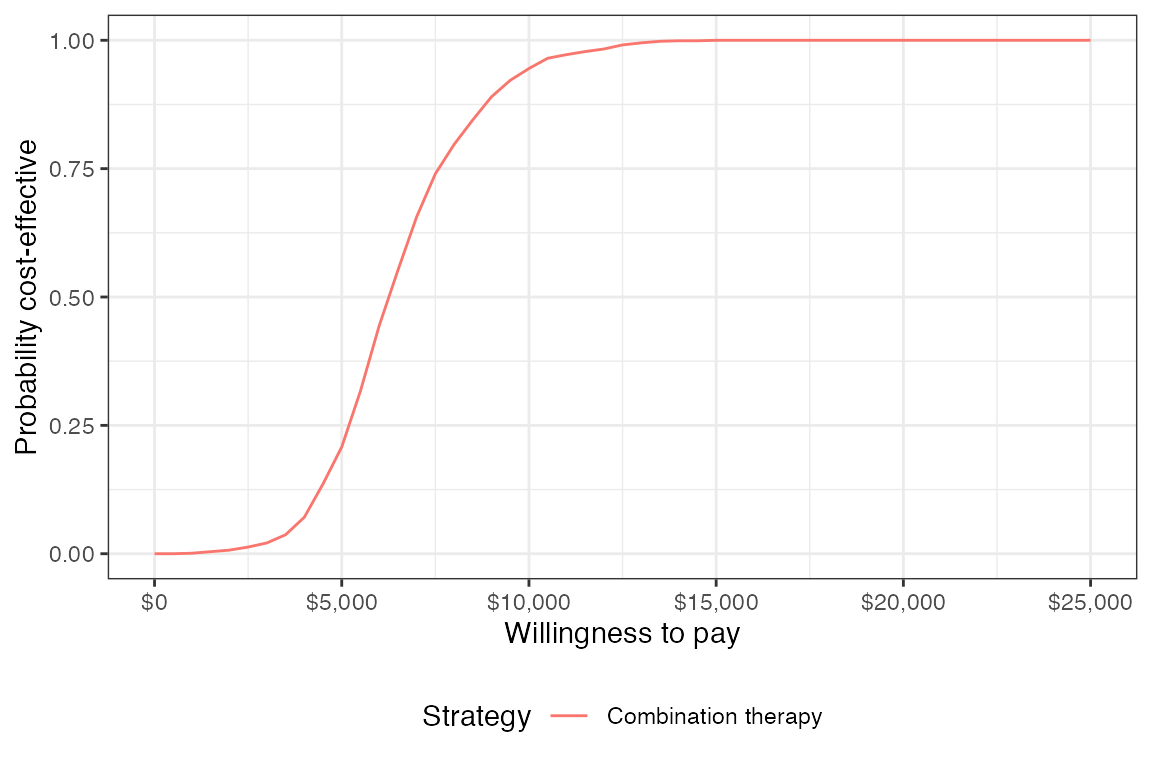
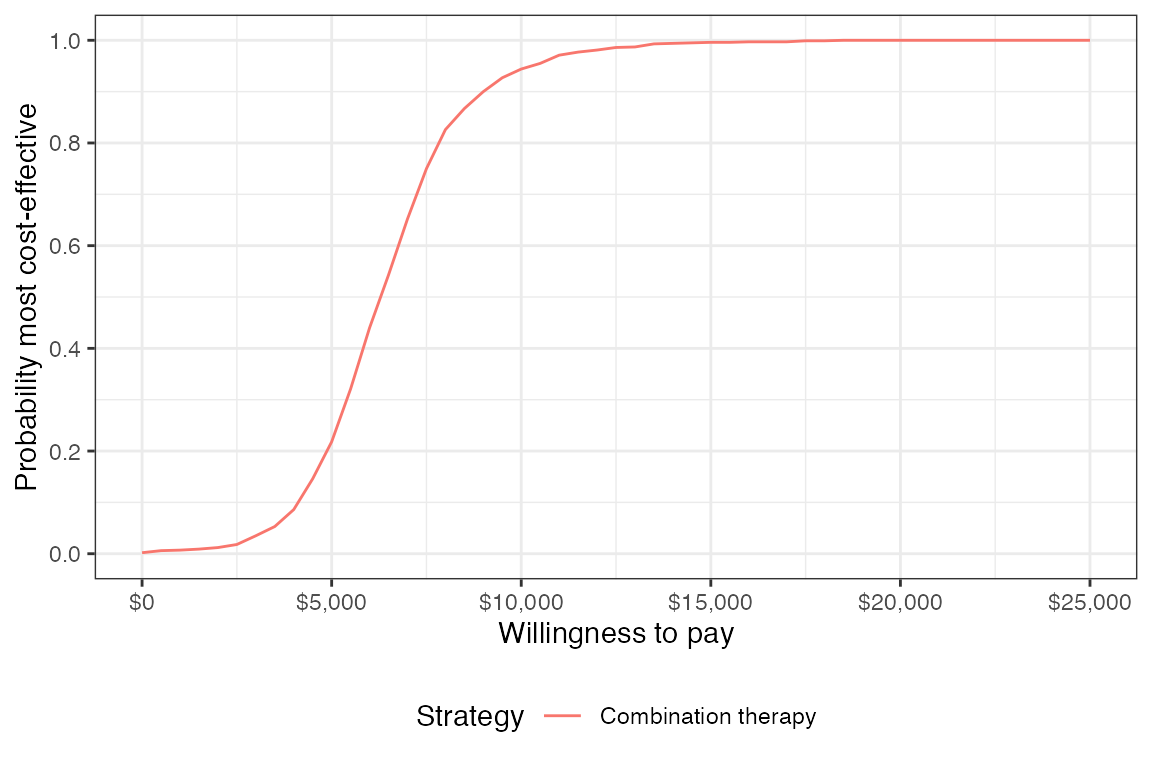
Update Simple Markov Model vignette

diff --git a/docs/dev/articles/markov-cohort.html b/docs/dev/articles/markov-cohort.html
@@ -124,7 +124,7 @@
     <div class="page-header toc-ignore">
       <h1 data-toc-skip>Simple Markov cohort model</h1>
             
-            <h4 class="date">2021-01-30</h4>
+            <h4 class="date">2021-02-01</h4>
       
       <small class="dont-index">Source: <a href="https://github.com/hesim-dev/hesim/blob/master/vignettes/markov-cohort.Rmd"><code>vignettes/markov-cohort.Rmd</code></a></small>
       <div class="hidden name"><code>markov-cohort.Rmd</code></div>
@@ -140,6 +140,7 @@
 <p>We consider a simple example by replicating the HIV model developed by <a href="https://link.springer.com/article/10.2165/00019053-199712010-00006">Chancellor et al.</a> and used for didactic purposes in the <a href="https://www.herc.ox.ac.uk/downloads/decision-modelling-for-health-economic-evaluation"><em>Decision Modeling for Health Economic Evaluation</em></a> textbook. The analysis compares two treatment strategies, zidovudine monotherapy and zidovudine + lamivudine combination therapy. While the model is technically time-inhomogeneous because patients are assumed to only use lamivudine for 2 years before switching back to monotherapy, transition probabilities only change once so it might be referred to as (mostly) homogeneous.</p>
 <p>The model consists 4 health states. Ordered from worst to best to worst, they are: State A (CD4 cells &gt; 200 and &lt; 500 cells/mm3), State B (CD4 &lt; 200 cells/mm3), State C (AIDS), and State D (death). The model assumes that patients can transition to any state that is more severe (i.e., progress) but cannot transition back to a more severe state.</p>
 <p><img src="markov-cohort.png" width="700px"></p>
+<p>Transition probability matrices are the core of any cDTSTM. They can, in general, be constructed by either (i) using an explicit statistical model (e.g., via <code><a href="../reference/params_mlogit.html">params_mlogit()</a></code>) or (ii) by specifying transition probabilities for each parameter sample, treatment strategy, patient, and (optionally) time interval (e.g., via <code><a href="../reference/tparams_transprobs.html">tparams_transprobs()</a></code>). The latter approach can either by done “by hand” via standard evaluation or using non-standard evaluation with <code><a href="../reference/define_model.html">define_model()</a></code>. We will construct a <code>tparams_transprobs</code> object with <code><a href="../reference/define_model.html">define_model()</a></code>in this vignette, but an example using standard evaluation is available in the <code><a href="../reference/CohortDtstm.html">?CohortDtstm</a></code> help file.</p>
 </div>
 <div id="model-setup" class="section level1">
 <h1 class="hasAnchor">
@@ -151,8 +152,11 @@
 <span class="va">strategies</span> <span class="op">&lt;-</span> <span class="fu"><a href="https://Rdatatable.gitlab.io/data.table/reference/data.table.html">data.table</a></span><span class="op">(</span>strategy_id <span class="op">=</span> <span class="fl">1</span><span class="op">:</span><span class="fl">2</span>,
                          strategy_name <span class="op">=</span> <span class="fu"><a href="https://rdrr.io/r/base/c.html">c</a></span><span class="op">(</span><span class="st">"Monotherapy"</span>, <span class="st">"Combination therapy"</span><span class="op">)</span><span class="op">)</span>
 <span class="va">patients</span> <span class="op">&lt;-</span> <span class="fu"><a href="https://Rdatatable.gitlab.io/data.table/reference/data.table.html">data.table</a></span><span class="op">(</span>patient_id <span class="op">=</span> <span class="fl">1</span><span class="op">)</span>
+<span class="va">states</span> <span class="op">&lt;-</span> <span class="fu"><a href="https://Rdatatable.gitlab.io/data.table/reference/data.table.html">data.table</a></span><span class="op">(</span>state_id <span class="op">=</span> <span class="fl">1</span><span class="op">:</span><span class="fl">3</span>,
+                     state_name <span class="op">=</span> <span class="fu"><a href="https://rdrr.io/r/base/c.html">c</a></span><span class="op">(</span><span class="st">"State A"</span>, <span class="st">"State B"</span>, <span class="st">"State C"</span><span class="op">)</span><span class="op">)</span>
 <span class="va">hesim_dat</span> <span class="op">&lt;-</span> <span class="fu"><a href="../reference/hesim_data.html">hesim_data</a></span><span class="op">(</span>strategies <span class="op">=</span> <span class="va">strategies</span>,
-                        patients <span class="op">=</span> <span class="va">patients</span><span class="op">)</span>
+                        patients <span class="op">=</span> <span class="va">patients</span>,
+                        states <span class="op">=</span> <span class="va">states</span><span class="op">)</span>
 <span class="fu"><a href="https://rdrr.io/r/base/print.html">print</a></span><span class="op">(</span><span class="va">hesim_dat</span><span class="op">)</span></code></pre></div>
 <pre><code>## $strategies
 ##    strategy_id       strategy_name
@@ -163,8 +167,25 @@
 ##    patient_id
 ## 1:          1
 ## 
+## $states
+##    state_id state_name
+## 1:        1    State A
+## 2:        2    State B
+## 3:        3    State C
+## 
 ## attr(,"class")
 ## [1] "hesim_data"</code></pre>
+<p>The <code><a href="../reference/get_labels.html">get_labels()</a></code> function can be used to obtain nice labels for plots and summary tables.</p>
+<div class="sourceCode" id="cb3"><pre class="downlit sourceCode r">
+<code class="sourceCode R"><span class="va">labs</span> <span class="op">&lt;-</span> <span class="fu"><a href="../reference/get_labels.html">get_labels</a></span><span class="op">(</span><span class="va">hesim_dat</span><span class="op">)</span>
+<span class="fu"><a href="https://rdrr.io/r/base/print.html">print</a></span><span class="op">(</span><span class="va">labs</span><span class="op">)</span></code></pre></div>
+<pre><code>## $strategy_id
+##         Monotherapy Combination therapy 
+##                   1                   2 
+## 
+## $state_id
+## State A State B State C   Death 
+##       1       2       3       4</code></pre>
 </div>
 <div id="model-parameters" class="section level1">
 <h1 class="hasAnchor">
@@ -173,7 +194,7 @@
 <h2 class="hasAnchor">
 <a href="#estimates-from-the-literature" class="anchor"></a>Estimates from the literature</h2>
 <p>Counts of transitions at yearly intervals between each of the 4 health states were available from a longitudinal dataset from Chelsea and Westminister hospital.</p>
-<div class="sourceCode" id="cb3"><pre class="downlit sourceCode r">
+<div class="sourceCode" id="cb5"><pre class="downlit sourceCode r">
 <code class="sourceCode R"><span class="va">trans_mono</span> <span class="op">&lt;-</span> <span class="fu"><a href="https://rdrr.io/r/base/matrix.html">matrix</a></span><span class="op">(</span><span class="fu"><a href="https://rdrr.io/r/base/c.html">c</a></span><span class="op">(</span><span class="fl">1251</span>, <span class="fl">350</span>, <span class="fl">116</span>, <span class="fl">17</span>,
                        <span class="fl">0</span>, <span class="fl">731</span>, <span class="fl">512</span>, <span class="fl">15</span>,
                        <span class="fl">0</span>, <span class="fl">0</span>, <span class="fl">1312</span>, <span class="fl">437</span>,
@@ -190,7 +211,7 @@
 <p>Treatment effects are defined in terms of the relative risk, which is assumed to reduce the probability of all transitions to a more severe health state by an equal amount. We work with the log relative risk since it is approximately normally distributed. The estimated relative risk of disease progression is 0.509 (95% CI 0.365 to 0.710). We can then calculate the mean and standard error on the log scale.</p>
 <p>The cost-effectiveness analysis is based on life-years, meaning that each health state is assigned a utility value of 1. The costs of zidovudine and lamivudine are $2,278 and $2,086.50, respectively. Medical costs are split into direct medical and community medical costs.</p>
 <p>The parameter estimates are stored in a list.</p>
-<div class="sourceCode" id="cb5"><pre class="downlit sourceCode r">
+<div class="sourceCode" id="cb7"><pre class="downlit sourceCode r">
 <code class="sourceCode R"><span class="va">params</span> <span class="op">&lt;-</span> <span class="fu"><a href="https://rdrr.io/r/base/list.html">list</a></span><span class="op">(</span>
   alpha_mono <span class="op">=</span> <span class="va">trans_mono</span>, 
   lrr_mean <span class="op">=</span> <span class="fu"><a href="https://rdrr.io/r/base/Log.html">log</a></span><span class="op">(</span><span class="fl">.509</span><span class="op">)</span>, 
@@ -209,7 +230,7 @@
 <p>To perform a probabilistic sensitivity analysis (PSA), it is necessary to draw samples of the parameters from suitable probability distributions. While the probability distributions could have been drawn manually and stored in the <code>params</code> object above, it can be more easily done by using random number generation functions with <code><a href="../reference/define_rng.html">define_rng()</a></code>.</p>
 <p>As noted above, we draw the transition probabilities with monotherapy from a Dirichlet distribution and the relative risk (of a transition to a worse state with combination therapy relative to monotherapy) from a lognormal distribution. Drug costs and utility are assumed to be fixed while medical costs are drawn from gamma distributions.</p>
 <p>Sampled parameters values are stored in a list, meaning that samples for each parameter can be stored as either a vector or <code>data.table</code> (or matrix or <code>data.frame</code>). For instance, we sample medical costs for each (non-death) health state from gamma distributions and they a stored in a <code>data.table</code> (one row for each sample and one column for each health state). Likewise, the parameters of each cell in the transition probability matrix are store in a <code>data.table</code>, with parameters of the <code>data.table</code> ordered rowwise across the columns. On the other hand, samples of the relative risk are stored in a vector.</p>
-<div class="sourceCode" id="cb6"><pre class="downlit sourceCode r">
+<div class="sourceCode" id="cb8"><pre class="downlit sourceCode r">
 <code class="sourceCode R"><span class="va">rng_def</span> <span class="op">&lt;-</span> <span class="fu"><a href="../reference/define_rng.html">define_rng</a></span><span class="op">(</span><span class="op">{</span>
   <span class="va">lrr_se</span> <span class="op">&lt;-</span> <span class="op">(</span><span class="va">lrr_upper</span> <span class="op">-</span> <span class="va">lrr_lower</span><span class="op">)</span><span class="op">/</span><span class="op">(</span><span class="fl">2</span> <span class="op">*</span> <span class="fu"><a href="https://rdrr.io/r/stats/Normal.html">qnorm</a></span><span class="op">(</span><span class="fl">.975</span><span class="op">)</span><span class="op">)</span> <span class="co"># Local object </span>
                                                       <span class="co"># not returned</span>
@@ -229,7 +250,7 @@
 <a href="#transformed-parameters" class="anchor"></a>Transformed parameters</h2>
 <p>In most statistical models, the underlying parameters are “transformed” into more relevant parameters for prediction. For instance, if a multinomial logistic regression is used parameterize transition probabilities, the coefficients are used to predict the probabilities. While transition, cost, and utility models can be parameterized using supported statistical models with <code><a href="../reference/params.html">hesim::params</a></code> objects, they can also, in some cases, be parameterized using the transformed parameters themselves with <code><a href="../reference/tparams.html">hesim::tparams</a></code> objects.</p>
 <p>We will use the transformed parameter approach here by using <code><a href="../reference/define_tparams.html">define_tparams()</a></code> to define <code>tparams</code> objects as a function of the underlying parameters and input data (treatment strategies and patients). We generate the input data using <code><a href="../reference/expand.html">hesim::expand()</a></code>.</p>
-<div class="sourceCode" id="cb7"><pre class="downlit sourceCode r">
+<div class="sourceCode" id="cb9"><pre class="downlit sourceCode r">
 <code class="sourceCode R"><span class="va">input_data</span> <span class="op">&lt;-</span> <span class="fu"><a href="../reference/expand.html">expand</a></span><span class="op">(</span><span class="va">hesim_dat</span>, by <span class="op">=</span> <span class="fu"><a href="https://rdrr.io/r/base/c.html">c</a></span><span class="op">(</span><span class="st">"strategies"</span>, <span class="st">"patients"</span><span class="op">)</span><span class="op">)</span>
 <span class="fu"><a href="https://rdrr.io/r/utils/head.html">head</a></span><span class="op">(</span><span class="va">input_data</span><span class="op">)</span></code></pre></div>
 <pre><code>##    strategy_id patient_id       strategy_name
@@ -239,7 +260,7 @@
 <p>An important helper function is <code><a href="../reference/tpmatrix.html">tpmatrix()</a></code>, which allows users to define transition matrices as a function of other parameters. In this example, transition probabilities are defined in terms of the transition matrix for monotherapy (<code>p_mono</code>) and the relative risk (<code>rr</code>). The relative risk is simply 1 for monotherapy (since the corresponding transition matrix is just <code>p_mono</code>) and equal to <code>rr_comb</code> for combination therapy.</p>
 <p>The only costs in the model that vary across treatment strategies (rather than just states) are drug costs. The monotherapy treatment strategy include the cost of zidovudine only whereas the combination therapy includes the costs of both zidovudine and lamivudine.</p>
 <p>Parameters may depend on time (since the start of the model) by using the package defined <code>time</code> variable. The <code>time</code> variable corresponds to the stopping time of time intervals, which are specified using the <code>times</code> argument in <code><a href="../reference/define_tparams.html">define_tparams()</a></code>. Since patients are only assumed to use lamivudine for two years, <code>rr_comb</code> and the costs of lamivudine are not applied beyond year 2.</p>
-<div class="sourceCode" id="cb9"><pre class="downlit sourceCode r">
+<div class="sourceCode" id="cb11"><pre class="downlit sourceCode r">
 <code class="sourceCode R"><span class="va">tparams_def</span> <span class="op">&lt;-</span> <span class="fu"><a href="../reference/define_tparams.html">define_tparams</a></span><span class="op">(</span><span class="op">{</span>
   <span class="co">## The treatment effect (relative risk) is transformed so that it varies by </span>
   <span class="co">## strategies and only applies for the first 2 years (Monotherapy is </span>
@@ -271,12 +292,12 @@
 <h2 class="hasAnchor">
 <a href="#constructing-the-economic-model" class="anchor"></a>Constructing the economic model</h2>
 <p>The economic model is defined by using <code><a href="../reference/define_model.html">define_model()</a></code> to combine the underlying parameters with the expressions for random number generation and parameter transformation.</p>
-<div class="sourceCode" id="cb10"><pre class="downlit sourceCode r">
+<div class="sourceCode" id="cb12"><pre class="downlit sourceCode r">
 <code class="sourceCode R"><span class="va">mod_def</span> <span class="op">&lt;-</span> <span class="fu"><a href="../reference/define_model.html">define_model</a></span><span class="op">(</span>tparams_def <span class="op">=</span> <span class="va">tparams_def</span>, 
                         rng_def <span class="op">=</span> <span class="va">rng_def</span>, 
                         params <span class="op">=</span> <span class="va">params</span><span class="op">)</span></code></pre></div>
 <p>A economic model (of class <code>CohortDtstm</code>) can be created from the defined model and input data using the generic function <code><a href="../reference/create_CohortDtstm.html">create_CohortDtstm()</a></code>. The economic model is an <code>R6</code> object consisting of a transition model (<code>trans_model</code>) for simulating transition probabilities with <code>sim_stateprobs()</code>, a utility model for simulating quality-adjusted life-years with <code><a href="../reference/sim_ev.html">sim_qalys()</a></code>, and a set of cost models (for each cost category) for simulating costs with <code><a href="../reference/sim_ev.html">sim_costs()</a></code>.</p>
-<div class="sourceCode" id="cb11"><pre class="downlit sourceCode r">
+<div class="sourceCode" id="cb13"><pre class="downlit sourceCode r">
 <code class="sourceCode R"><span class="va">econmod</span> <span class="op">&lt;-</span> <span class="fu"><a href="../reference/create_CohortDtstm.html">create_CohortDtstm</a></span><span class="op">(</span><span class="va">mod_def</span>, <span class="va">input_data</span><span class="op">)</span></code></pre></div>
 </div>
 <div id="simulating-outcomes" class="section level2">
@@ -285,35 +306,47 @@
 <div id="health-state-probabilities" class="section level3">
 <h3 class="hasAnchor">
 <a href="#health-state-probabilities" class="anchor"></a>Health state probabilities</h3>
-<p>At the start of the model, all patients are assumed to be in State A (the default setting of the transition model of class <code>CohortDtstmTrans</code>). State occupancy probabilities are generated by simulating the discrete time Markov chain; as expected, patients survive longer with combination therapy.</p>
-<div class="sourceCode" id="cb12"><pre class="downlit sourceCode r">
+<p>At the start of the model, all patients are assumed to be in State A (the default setting of the transition model of class <code>CohortDtstmTrans</code>). State occupancy probabilities are generated by simulating the discrete time Markov chain.</p>
+<div class="sourceCode" id="cb14"><pre class="downlit sourceCode r">
 <code class="sourceCode R"><span class="va">econmod</span><span class="op">$</span><span class="fu">sim_stateprobs</span><span class="op">(</span>n_cycles <span class="op">=</span> <span class="fl">20</span><span class="op">)</span>
-
-<span class="co"># Plot</span>
-<span class="kw"><a href="https://rdrr.io/r/base/library.html">library</a></span><span class="op">(</span><span class="st"><a href="https://ggplot2.tidyverse.org">"ggplot2"</a></span><span class="op">)</span>
-<span class="fu"><a href="https://ggplot2.tidyverse.org/reference/theme_get.html">theme_set</a></span><span class="op">(</span><span class="fu"><a href="https://ggplot2.tidyverse.org/reference/ggtheme.html">theme_bw</a></span><span class="op">(</span><span class="op">)</span><span class="op">)</span>
-<span class="va">stateprob_summary</span> <span class="op">&lt;-</span> <span class="va">econmod</span><span class="op">$</span><span class="va">stateprobs_</span><span class="op">[</span>, <span class="fu">.</span><span class="op">(</span>prob_mean <span class="op">=</span> <span class="fu"><a href="https://rdrr.io/r/base/mean.html">mean</a></span><span class="op">(</span><span class="va">prob</span><span class="op">)</span>,
-                                              prob_lower <span class="op">=</span> <span class="fu"><a href="https://rdrr.io/r/stats/quantile.html">quantile</a></span><span class="op">(</span><span class="va">prob</span>, <span class="fl">.025</span><span class="op">)</span>,
-                                              prob_upper <span class="op">=</span> <span class="fu"><a href="https://rdrr.io/r/stats/quantile.html">quantile</a></span><span class="op">(</span><span class="va">prob</span>, <span class="fl">.975</span><span class="op">)</span><span class="op">)</span>,
-                                          by <span class="op">=</span> <span class="fu"><a href="https://rdrr.io/r/base/c.html">c</a></span><span class="op">(</span><span class="st">"strategy_id"</span>, <span class="st">"state_id"</span>, <span class="st">"t"</span><span class="op">)</span><span class="op">]</span>
-<span class="va">stateprob_summary</span><span class="op">[</span>, <span class="va">strategy_name</span> <span class="op">:=</span> <span class="fu"><a href="https://rdrr.io/r/base/factor.html">factor</a></span><span class="op">(</span><span class="va">strategy_id</span>,
-                                          labels <span class="op">=</span> <span class="va">strategies</span><span class="op">$</span><span class="va">strategy_name</span><span class="op">)</span><span class="op">]</span>
-<span class="fu"><a href="https://ggplot2.tidyverse.org/reference/ggplot.html">ggplot</a></span><span class="op">(</span><span class="va">stateprob_summary</span>, <span class="fu"><a href="https://ggplot2.tidyverse.org/reference/aes.html">aes</a></span><span class="op">(</span>x <span class="op">=</span> <span class="va">t</span>, y <span class="op">=</span> <span class="va">prob_mean</span><span class="op">)</span><span class="op">)</span> <span class="op">+</span>
-  <span class="fu"><a href="https://ggplot2.tidyverse.org/reference/geom_path.html">geom_line</a></span><span class="op">(</span><span class="fu"><a href="https://ggplot2.tidyverse.org/reference/aes.html">aes</a></span><span class="op">(</span>col <span class="op">=</span> <span class="va">strategy_name</span><span class="op">)</span><span class="op">)</span> <span class="op">+</span>
-  <span class="fu"><a href="https://ggplot2.tidyverse.org/reference/geom_ribbon.html">geom_ribbon</a></span><span class="op">(</span><span class="fu"><a href="https://ggplot2.tidyverse.org/reference/aes.html">aes</a></span><span class="op">(</span>x <span class="op">=</span> <span class="va">t</span>, ymin <span class="op">=</span> <span class="va">prob_lower</span>, ymax <span class="op">=</span> <span class="va">prob_upper</span>,
-                  fill <span class="op">=</span> <span class="va">strategy_name</span><span class="op">)</span>, alpha <span class="op">=</span> <span class="fl">.3</span><span class="op">)</span> <span class="op">+</span>
-  <span class="fu"><a href="https://ggplot2.tidyverse.org/reference/facet_wrap.html">facet_wrap</a></span><span class="op">(</span><span class="op">~</span><span class="fu"><a href="https://rdrr.io/r/base/factor.html">factor</a></span><span class="op">(</span><span class="va">state_id</span>, labels <span class="op">=</span> <span class="va">LETTERS</span><span class="op">[</span><span class="fl">1</span><span class="op">:</span><span class="fl">4</span><span class="op">]</span><span class="op">)</span><span class="op">)</span> <span class="op">+</span>
-  <span class="fu"><a href="https://ggplot2.tidyverse.org/reference/labs.html">xlab</a></span><span class="op">(</span><span class="st">"Year"</span><span class="op">)</span> <span class="op">+</span> <span class="fu"><a href="https://ggplot2.tidyverse.org/reference/labs.html">ylab</a></span><span class="op">(</span><span class="st">"Probability"</span><span class="op">)</span> <span class="op">+</span>
-  <span class="fu"><a href="https://ggplot2.tidyverse.org/reference/scale_colour_discrete.html">scale_fill_discrete</a></span><span class="op">(</span><span class="st">"Strategy"</span><span class="op">)</span> <span class="op">+</span> <span class="fu"><a href="https://ggplot2.tidyverse.org/reference/scale_hue.html">scale_color_discrete</a></span><span class="op">(</span><span class="st">"Strategy"</span><span class="op">)</span></code></pre></div>
-<p><img src="markov-cohort_files/figure-html/simStateprobs-1.png" width="672"></p>
+<span class="fu"><a href="https://rdrr.io/r/utils/head.html">head</a></span><span class="op">(</span><span class="va">econmod</span><span class="op">$</span><span class="va">stateprobs_</span><span class="op">)</span></code></pre></div>
+<pre><code>##    sample strategy_id patient_id grp_id state_id t      prob
+## 1:      1           1          1      1        1 0 1.0000000
+## 2:      1           1          1      1        1 1 0.7200241
+## 3:      1           1          1      1        1 2 0.5184347
+## 4:      1           1          1      1        1 3 0.3732854
+## 5:      1           1          1      1        1 4 0.2687745
+## 6:      1           1          1      1        1 5 0.1935241</code></pre>
+<p>A plot can be generated quicky using the <code><a href="../reference/autoplot.stateprobs.html">autoplot.stateprobs()</a></code> method. As expected, patients survive longer with combination therapy.</p>
+<div class="sourceCode" id="cb16"><pre class="downlit sourceCode r">
+<code class="sourceCode R"><span class="fu"><a href="https://ggplot2.tidyverse.org/reference/autoplot.html">autoplot</a></span><span class="op">(</span><span class="va">econmod</span><span class="op">$</span><span class="va">stateprobs_</span>, labels <span class="op">=</span> <span class="va">labs</span>,
+         ci <span class="op">=</span> <span class="cn">TRUE</span>, ci_style <span class="op">=</span> <span class="st">"ribbon"</span><span class="op">)</span></code></pre></div>
+<p><img src="markov-cohort_files/figure-html/simStateprobsPlot-1.png" width="672"></p>
 </div>
 <div id="costs-and-qalys" class="section level3">
 <h3 class="hasAnchor">
 <a href="#costs-and-qalys" class="anchor"></a>Costs and QALYs</h3>
-<p>Costs and quality-adjusted life-years (QALYs) are computed by integrating the previously simulated state probabilities. To maintain consistency with Chancellor et al., we approximate the integral with a right Riemann sum, which is simply a sum of costs and QALYs measured at the right endpoint of each interval (e.g., costs during model cycle 1 are measured at time 1 (rather than at say, time 0)).</p>
-<div class="sourceCode" id="cb13"><pre class="downlit sourceCode r">
+<p>Costs and quality-adjusted life-years (QALYs) are computed by integrating the previously simulated state probabilities. To maintain consistency with Chancellor et al., we approximate the integral with a right Riemann sum, which is simply a sum of costs and QALYs measured at the right endpoint of each interval (e.g., costs during model cycle 1 are measured at time 1 (rather than at say, time 0).</p>
+<div class="sourceCode" id="cb17"><pre class="downlit sourceCode r">
 <code class="sourceCode R"><span class="va">econmod</span><span class="op">$</span><span class="fu">sim_qalys</span><span class="op">(</span>dr <span class="op">=</span> <span class="fl">0</span>, integrate_method <span class="op">=</span> <span class="st">"riemann_right"</span><span class="op">)</span>
-<span class="va">econmod</span><span class="op">$</span><span class="fu">sim_costs</span><span class="op">(</span>dr <span class="op">=</span> <span class="fl">0.06</span>, integrate_method <span class="op">=</span> <span class="st">"riemann_right"</span><span class="op">)</span></code></pre></div>
+<span class="fu"><a href="https://rdrr.io/r/utils/head.html">head</a></span><span class="op">(</span><span class="va">econmod</span><span class="op">$</span><span class="va">qalys_</span><span class="op">)</span></code></pre></div>
+<pre><code>##    sample strategy_id patient_id grp_id state_id dr    qalys      lys
+## 1:      1           1          1      1        1  0 2.568128 2.568128
+## 2:      1           1          1      1        2  0 1.811997 1.811997
+## 3:      1           1          1      1        3  0 3.827462 3.827462
+## 4:      1           2          1      1        1  0 3.487750 3.487750
+## 5:      1           2          1      1        2  0 1.860510 1.860510
+## 6:      1           2          1      1        3  0 3.811177 3.811177</code></pre>
+<div class="sourceCode" id="cb19"><pre class="downlit sourceCode r">
+<code class="sourceCode R"><span class="va">econmod</span><span class="op">$</span><span class="fu">sim_costs</span><span class="op">(</span>dr <span class="op">=</span> <span class="fl">0.06</span>, integrate_method <span class="op">=</span> <span class="st">"riemann_right"</span><span class="op">)</span>
+<span class="fu"><a href="https://rdrr.io/r/utils/head.html">head</a></span><span class="op">(</span><span class="va">econmod</span><span class="op">$</span><span class="va">costs_</span><span class="op">)</span></code></pre></div>
+<pre><code>##    sample strategy_id patient_id grp_id state_id   dr category    costs
+## 1:      1           1          1      1        1 0.06     drug 4796.554
+## 2:      1           1          1      1        2 0.06     drug 3117.280
+## 3:      1           1          1      1        3 0.06     drug 5547.015
+## 4:      1           2          1      1        1 0.06     drug 9520.454
+## 5:      1           2          1      1        2 0.06     drug 3565.653
+## 6:      1           2          1      1        3 0.06     drug 5464.021</code></pre>
 </div>
 </div>
 </div>
@@ -321,28 +354,22 @@
 <h1 class="hasAnchor">
 <a href="#decision-analysis" class="anchor"></a>Decision analysis</h1>
 <p>A decision analysis is performed by comparing combination therapy to monotherapy.</p>
-<div class="sourceCode" id="cb14"><pre class="downlit sourceCode r">
+<div class="sourceCode" id="cb21"><pre class="downlit sourceCode r">
 <code class="sourceCode R"><span class="va">ce_sim</span> <span class="op">&lt;-</span> <span class="va">econmod</span><span class="op">$</span><span class="fu">summarize</span><span class="op">(</span><span class="op">)</span>
 <span class="va">wtp</span> <span class="op">&lt;-</span> <span class="fu"><a href="https://rdrr.io/r/base/seq.html">seq</a></span><span class="op">(</span><span class="fl">0</span>, <span class="fl">25000</span>, <span class="fl">500</span><span class="op">)</span>
 <span class="va">cea_pw_out</span> <span class="op">&lt;-</span> <span class="fu"><a href="../reference/cea.html">cea_pw</a></span><span class="op">(</span><span class="va">ce_sim</span>, comparator <span class="op">=</span> <span class="fl">1</span>, dr_qalys <span class="op">=</span> <span class="fl">0</span>, dr_costs <span class="op">=</span> <span class="fl">.06</span>,
                      k <span class="op">=</span> <span class="va">wtp</span><span class="op">)</span></code></pre></div>
 <p>The incremental cost-effectiveness ratio (ICER) estimated using means from the PSA is very close to the estimate from the deterministic analysis from Chancellor et al. </p>
-<div class="sourceCode" id="cb15"><pre class="downlit sourceCode r">
+<div class="sourceCode" id="cb22"><pre class="downlit sourceCode r">
 <code class="sourceCode R"><span class="fu"><a href="https://rdrr.io/r/base/format.html">format</a></span><span class="op">(</span><span class="fu"><a href="../reference/icer.html">icer</a></span><span class="op">(</span><span class="va">cea_pw_out</span><span class="op">)</span><span class="op">)</span></code></pre></div>
 <pre><code>##              Outcome                       2
-## 1: Incremental QALYs       0.93 (0.55, 1.22)
-## 2: Incremental costs    5,890 (3,062, 9,882)
-## 3:   Incremental NMB 40,581 (22,418, 55,113)
-## 4:              ICER                   6,338</code></pre>
-<p>A cost-effectiveness acceptability curve shows that the probability that combination therapy is more cost-effective than monotherapy increases quickly with the willingness to pay (WTP) for a QALY. At $10,000, the probability is 0.945 and approaches 1 at slightly higher WTP values.</p>
-<div class="sourceCode" id="cb17"><pre class="downlit sourceCode r">
-<code class="sourceCode R"><span class="fu"><a href="https://ggplot2.tidyverse.org/reference/ggplot.html">ggplot</a></span><span class="op">(</span><span class="va">cea_pw_out</span><span class="op">$</span><span class="va">ceac</span>, 
-       <span class="fu"><a href="https://ggplot2.tidyverse.org/reference/aes.html">aes</a></span><span class="op">(</span>x <span class="op">=</span> <span class="va">k</span>, y <span class="op">=</span> <span class="va">prob</span>, 
-           col <span class="op">=</span> <span class="fu"><a href="https://rdrr.io/r/base/factor.html">factor</a></span><span class="op">(</span><span class="va">strategy_id</span>, labels <span class="op">=</span> <span class="va">strategies</span><span class="op">$</span><span class="va">strategy_name</span><span class="op">[</span><span class="op">-</span><span class="fl">1</span><span class="op">]</span><span class="op">)</span><span class="op">)</span><span class="op">)</span> <span class="op">+</span>
-  <span class="fu"><a href="https://ggplot2.tidyverse.org/reference/geom_path.html">geom_line</a></span><span class="op">(</span><span class="op">)</span>  <span class="op">+</span> <span class="fu"><a href="https://ggplot2.tidyverse.org/reference/labs.html">xlab</a></span><span class="op">(</span><span class="st">"Willingness to pay"</span><span class="op">)</span> <span class="op">+</span>
-  <span class="fu"><a href="https://ggplot2.tidyverse.org/reference/labs.html">ylab</a></span><span class="op">(</span><span class="st">"Probability cost-effective"</span><span class="op">)</span> <span class="op">+</span>
-  <span class="fu"><a href="https://ggplot2.tidyverse.org/reference/scale_continuous.html">scale_x_continuous</a></span><span class="op">(</span>breaks <span class="op">=</span> <span class="fu"><a href="https://rdrr.io/r/base/seq.html">seq</a></span><span class="op">(</span><span class="fl">0</span>, <span class="fu"><a href="https://rdrr.io/r/base/Extremes.html">max</a></span><span class="op">(</span><span class="va">wtp</span><span class="op">)</span>, <span class="fl">5000</span><span class="op">)</span>, label <span class="op">=</span> <span class="fu">scales</span><span class="fu">::</span><span class="va"><a href="https://scales.r-lib.org//reference/label_dollar.html">dollar</a></span><span class="op">)</span> <span class="op">+</span>
-  <span class="fu"><a href="https://ggplot2.tidyverse.org/reference/theme.html">theme</a></span><span class="op">(</span>legend.position <span class="op">=</span> <span class="st">"bottom"</span><span class="op">)</span> <span class="op">+</span> <span class="fu"><a href="https://ggplot2.tidyverse.org/reference/scale_colour_discrete.html">scale_colour_discrete</a></span><span class="op">(</span>name <span class="op">=</span> <span class="st">"Strategy"</span><span class="op">)</span></code></pre></div>
+## 1: Incremental QALYs       0.93 (0.54, 1.21)
+## 2: Incremental costs    5,803 (2,785, 9,402)
+## 3:   Incremental NMB 40,585 (22,063, 54,927)
+## 4:              ICER                   6,255</code></pre>
+<p>A cost-effectiveness acceptability curve shows that the probability that combination therapy is more cost-effective than monotherapy increases quickly with the willingness to pay (WTP) for a QALY. At $10,000, the probability is 0.944 and approaches 1 at slightly higher WTP values.</p>
+<div class="sourceCode" id="cb24"><pre class="downlit sourceCode r">
+<code class="sourceCode R"><span class="fu"><a href="../reference/plot_ceac.html">plot_ceac</a></span><span class="op">(</span><span class="va">cea_pw_out</span>, labels <span class="op">=</span> <span class="va">labs</span><span class="op">)</span></code></pre></div>
 <p><img src="markov-cohort_files/figure-html/ceac-1.png" width="576"></p>
 </div>
 <div id="appendix-dirichlet-distribution" class="section level1">
